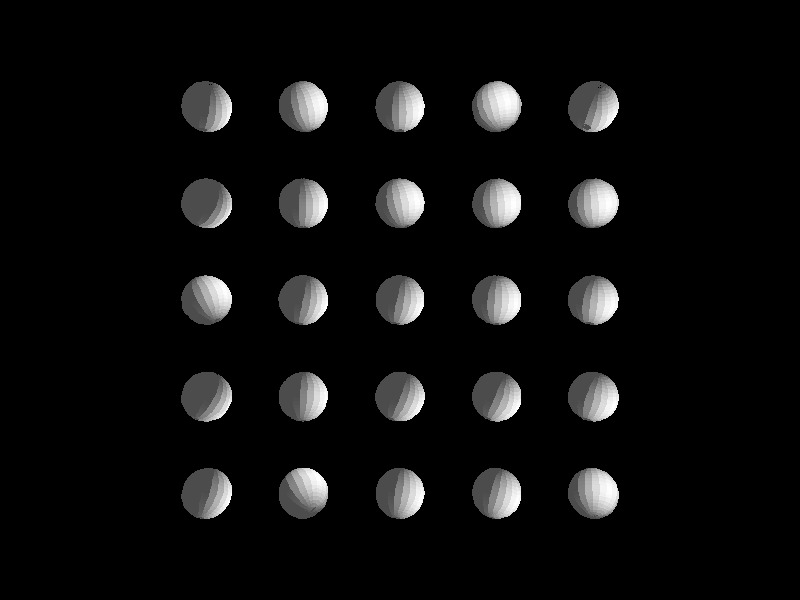
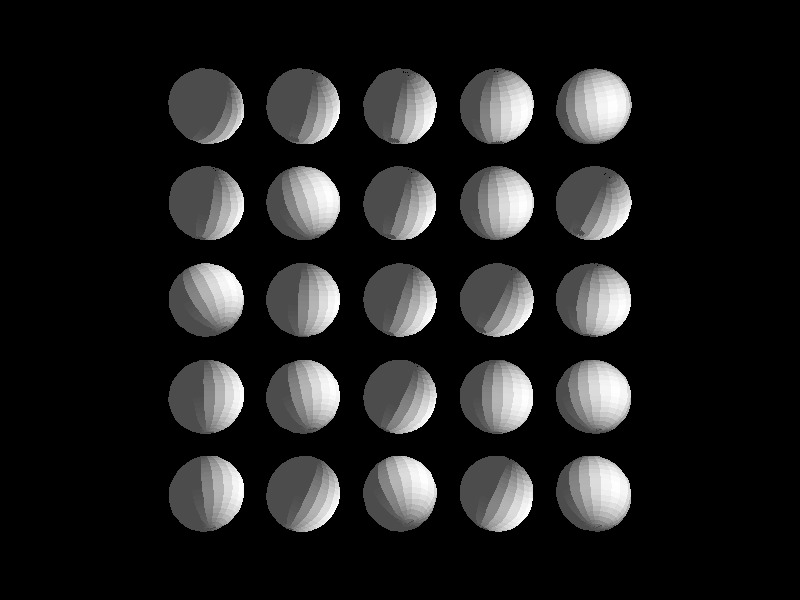
Bigger spheres

diff --git a/src/main.rs b/src/main.rs
@@ -22,7 +22,7 @@ fn main() {
             let phi = 2.0 * std::f32::consts::PI * (j as f32) / (lon_segments as f32);
             let x = r * phi.cos();
             let z = r * phi.sin();
-            vertices.push(Vec3::new(x, y, z));
+            vertices.push(Vec3::new(x * 1.5, y * 1.5, z * 1.5));
         }
     }
 
